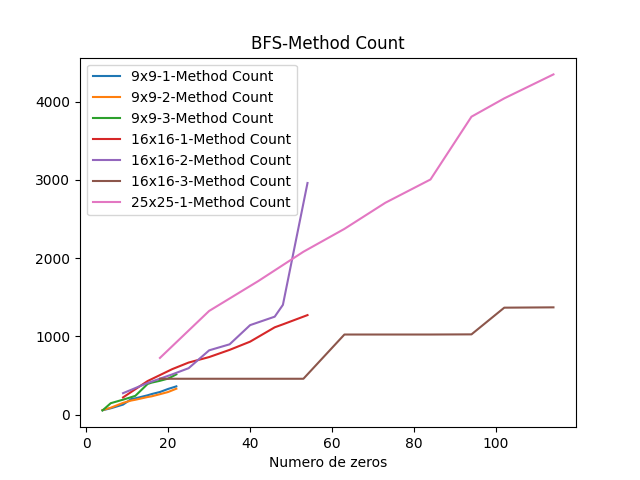
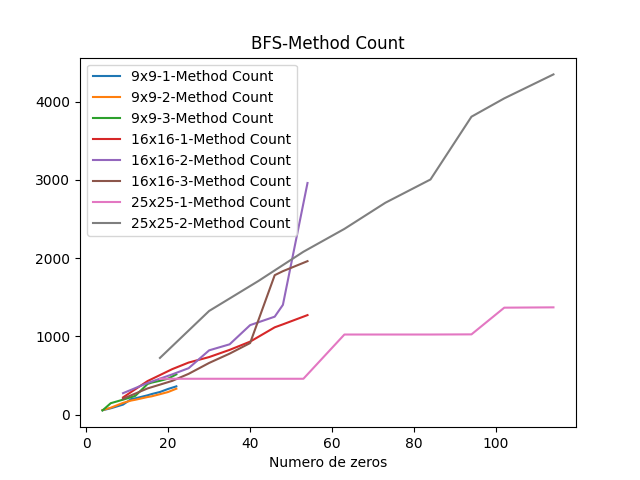
corr

diff --git a/corr.py b/corr.py
@@ -5,17 +5,17 @@ import re
 numbers = re.compile(r'(\d+)')
 
 
-paths = \
-['./out/9x9/1-BFS/*.json', './out/9x9/1-CP/*.json', './out/9x9/1-DLX/*.json', \
- './out/9x9/2-BFS/*.json', './out/9x9/2-CP/*.json', './out/9x9/2-DLX/*.json',\
-  './out/9x9/3-BFS/*.json', './out/9x9/3-CP/*.json', './out/9x9/3-DLX/*.json', \
+paths = [ \
+'./out/9x9/1-BFS/*.json', './out/9x9/1-CP/*.json', './out/9x9/1-DLX/*.json', \
+'./out/9x9/2-BFS/*.json', './out/9x9/2-CP/*.json', './out/9x9/2-DLX/*.json',\
+'./out/9x9/3-BFS/*.json', './out/9x9/3-CP/*.json', './out/9x9/3-DLX/*.json', \
 './out/16x16/1-BFS/*.json', './out/16x16/1-CP/*.json', './out/16x16/1-DLX/*.json', \
- './out/16x16/2-BFS/*.json', './out/16x16/2-CP/*.json', './out/16x16/2-DLX/*.json', \
-   './out/16x16/3-CP/*.json', './out/16x16/3-CP/*.json', './out/16x16/3-DLX/*.json', \
+'./out/16x16/2-BFS/*.json', './out/16x16/2-CP/*.json', './out/16x16/2-DLX/*.json', \
+'./out/16x16/3-BFS/*.json', './out/16x16/3-CP/*.json', './out/16x16/3-DLX/*.json', \
 './out/25x25/1-BFS/*.json', './out/25x25/1-CP/*.json', './out/25x25/1-DLX/*.json', \
- './out/25x25/2-BFS/*.json', './out/25x25/2-CP/*.json', './out/25x25/2-DLX/*.json' \
- ]
- 
+'./out/25x25/2-BFS/*.json', './out/25x25/2-CP/*.json', './out/25x25/2-DLX/*.json' \
+]
+
 metric_keys = ['A New Array Count', "Instruction Count", "Store Count", "Field Store Count", "New Count", "Load Count", "New Array Count", "Basic Block Count", "Branch Count", "Method Count", "Multi New Array Count", "Field Load Count", "Stack Depth"]
 metric_keys_bfs = ["Instruction Count", "Store Count", "Load Count", "Basic Block Count", "Branch Count", "Method Count", "Field Load Count", "Stack Depth"]
 metric_keys_cp = ["Instruction Count", "Store Count", "New Count", "Load Count", "Basic Block Count", "Branch Count", "Method Count", "Field Load Count", "Stack Depth"]

diff --git a/plot.py b/plot.py
@@ -4,14 +4,16 @@ from matplotlib import pyplot as plt
 import re
 numbers = re.compile(r'(\d+)')
 
-paths = ['./out/9x9/1-BFS/*.json', './out/9x9/1-CP/*.json', './out/9x9/1-DLX/*.json', \
- './out/9x9/2-BFS/*.json', './out/9x9/2-CP/*.json', './out/9x9/2-DLX/*.json',\
-  './out/9x9/3-BFS/*.json', './out/9x9/3-CP/*.json', './out/9x9/3-DLX/*.json', \
+paths = [ \
+'./out/9x9/1-BFS/*.json', './out/9x9/1-CP/*.json', './out/9x9/1-DLX/*.json', \
+'./out/9x9/2-BFS/*.json', './out/9x9/2-CP/*.json', './out/9x9/2-DLX/*.json',\
+'./out/9x9/3-BFS/*.json', './out/9x9/3-CP/*.json', './out/9x9/3-DLX/*.json', \
 './out/16x16/1-BFS/*.json', './out/16x16/1-CP/*.json', './out/16x16/1-DLX/*.json', \
- './out/16x16/2-BFS/*.json', './out/16x16/2-CP/*.json', './out/16x16/2-DLX/*.json', \
-'./out/16x16/3-CP/*.json', './out/16x16/3-CP/*.json', './out/16x16/3-DLX/*.json', \
+'./out/16x16/2-BFS/*.json', './out/16x16/2-CP/*.json', './out/16x16/2-DLX/*.json', \
+'./out/16x16/3-BFS/*.json', './out/16x16/3-CP/*.json', './out/16x16/3-DLX/*.json', \
 './out/25x25/1-BFS/*.json', './out/25x25/1-CP/*.json', './out/25x25/1-DLX/*.json', \
- './out/25x25/2-BFS/*.json', './out/25x25/2-CP/*.json', './out/25x25/2-DLX/*.json']
+'./out/25x25/2-BFS/*.json', './out/25x25/2-CP/*.json', './out/25x25/2-DLX/*.json' \
+]
 
 metric_keys = ['A New Array Count', "Instruction Count", "Store Count", \
  "Field Store Count", "New Count", "Load Count", "New Array Count", "Basic Block Count", \
